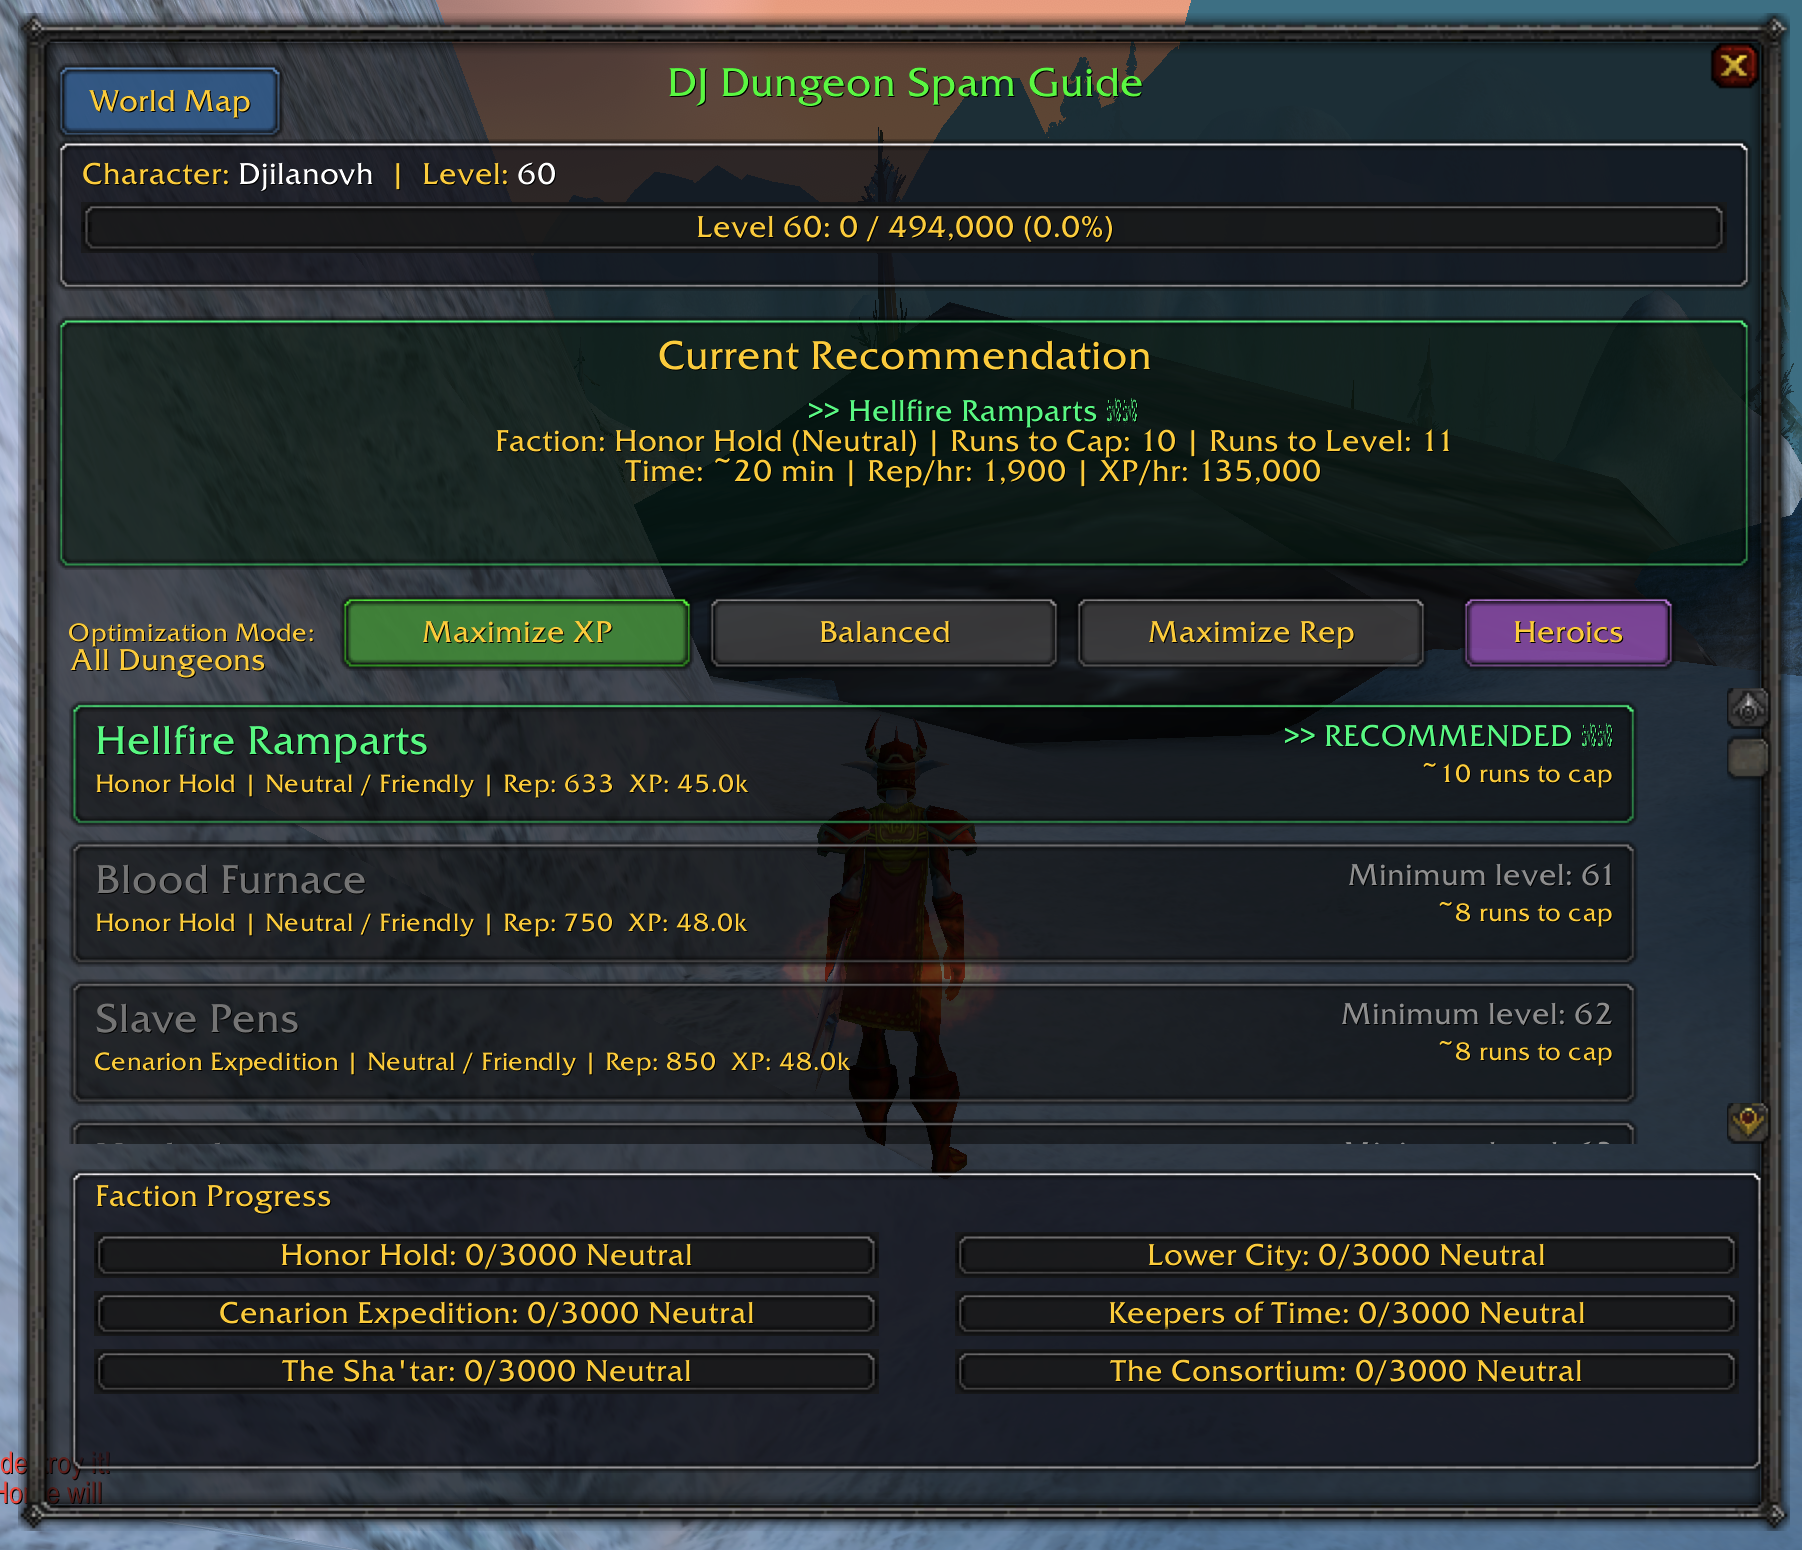
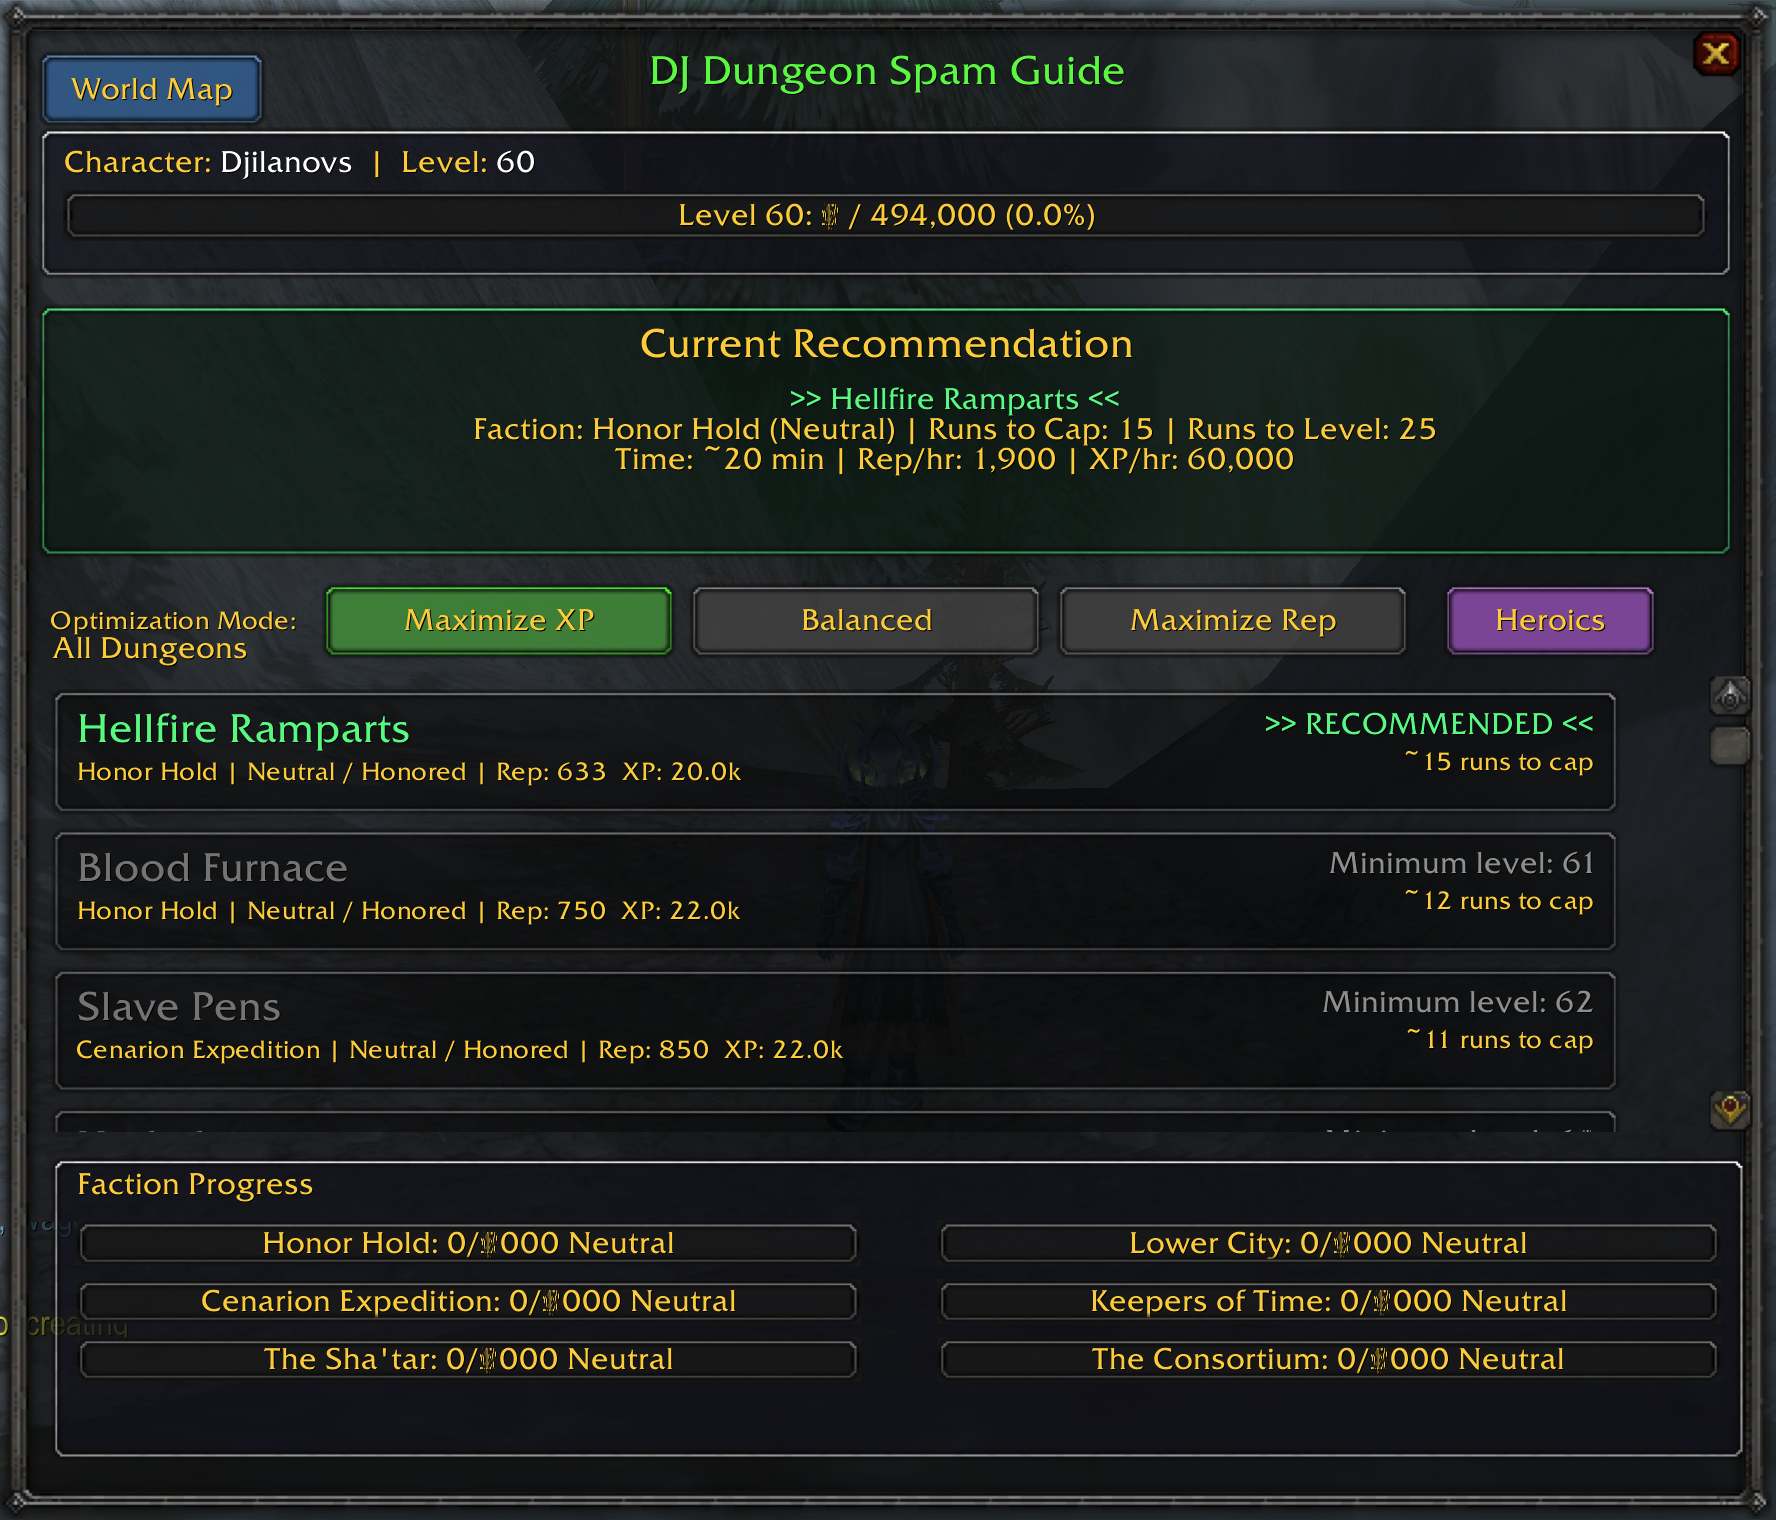
Fix reputation calculations for accurate runs-to-cap estimates
- Corrected repCapValue for all dungeons to match TBC reputation thresholds
- Normal dungeons now cap at Honored (9000) instead of incorrect 6000/12000 values
- High-level dungeons correctly cap at Exalted (42000)
- Updated main interface screenshot

This fixes the "runs to cap" calculation which was showing incorrect estimates
due to wrong reputation threshold values.

diff --git a/CHANGES.md b/CHANGES.md
@@ -1,5 +1,11 @@
 # Changelog
 
+## Version 1.0.4
+- Fixed reputation cap calculations for accurate "runs to cap" estimates
+- Corrected all dungeon reputation thresholds to match TBC mechanics
+- Normal dungeons now correctly cap at Honored (9000 rep) instead of incorrect values
+- Updated addon screenshot
+
 ## Version 1.0.3
 - Fixed packaging to exclude screenshots folder (reduces download size by 17MB)
 - Cleaned up package to only include essential addon files
